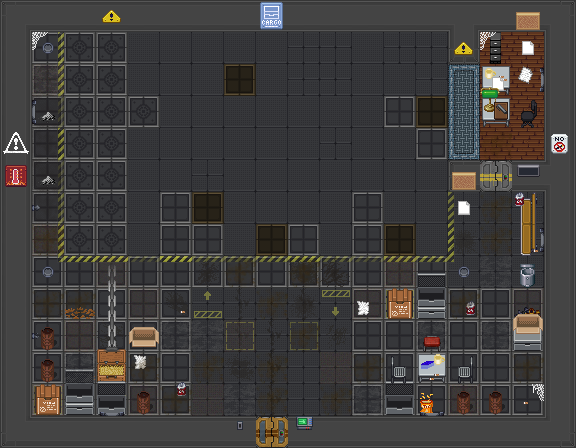
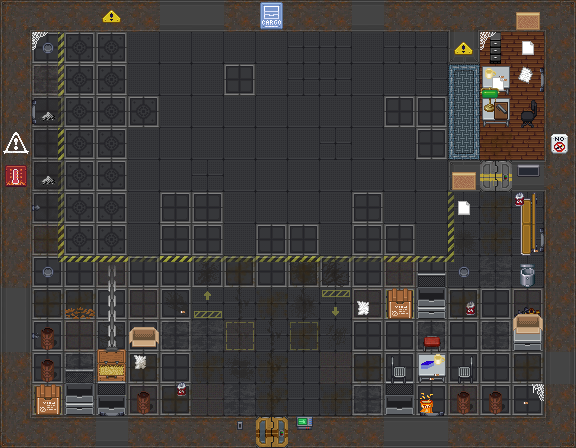
Use element-free rust on outpost maps and fit the outpost tests to any room layout
The stock rust walls and plating add the rust element, whose signals stay on a turf when it
changes. A rusted habitat or cargo dock loaded where one stood before, as on a recycled outpost
level, warned once per signal per tile. New rusted wall, reinforced wall and plating types draw the
rusty sprite instead, and the rundown maps use them; the baked previews now show the rust. The
rundown cargo dock also had rusted plating on its landing pad, which re-registered under every ferry.

The Registry Habitat had a second resident cryopod; the home bundle gives one. Its spare is a plant.

The shop, cargo dock, cloning bay, lab and storage tests pinned furniture to the old maps' tiles and
sizes. They now find the register, queue, staff side, pad and doors in the placed room, and check
the room's contract, so they hold for every style. The shell test bolts the generator down before
checking it feeds the SMES, as an owner would.

diff --git a/tools/ship_previews/generate_ship_previews.py b/tools/ship_previews/generate_ship_previews.py
@@ -100,6 +100,8 @@ SMOOTH_TURFS = {
     "/turf/closed/indestructible/rusty": ("icons/turf/walls/rusty_wall.dmi", "rusty_wall", "wall"),
     "/turf/closed/indestructible/reinforced/rusty": ("icons/turf/walls/rusty_reinforced_wall.dmi", "rusty_reinforced_wall", "wall"),
     "/turf/closed/indestructible/iron": ("icons/turf/walls/iron_wall.dmi", "iron_wall", "wall"),
+    "/turf/closed/wall/rusted": ("icons/turf/walls/rusty_wall.dmi", "rusty_wall", "wall"),
+    "/turf/closed/wall/r_wall/rusted": ("icons/turf/walls/rusty_reinforced_wall.dmi", "rusty_reinforced_wall", "wall"),
 }
 # Carpets: each colour smooths only with itself (its own join group), stock and indestructible alike
 for _colour in ("", "black", "blue", "cyan", "green", "orange", "purple", "red", "royalblack", "royalblue"):
